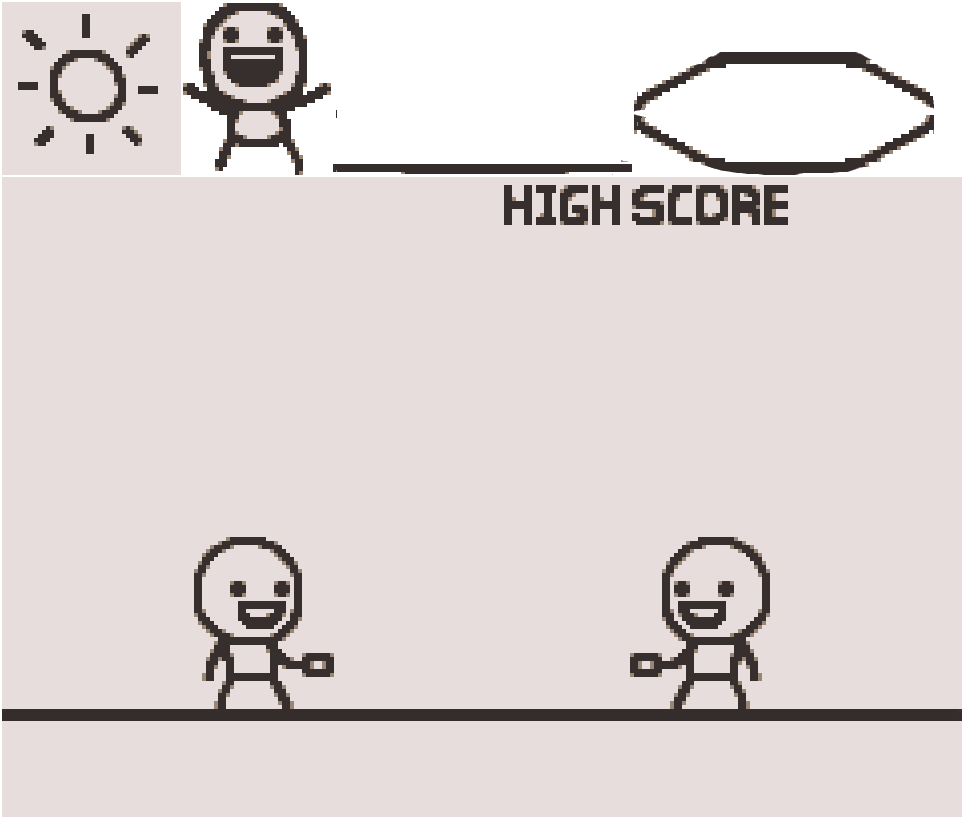
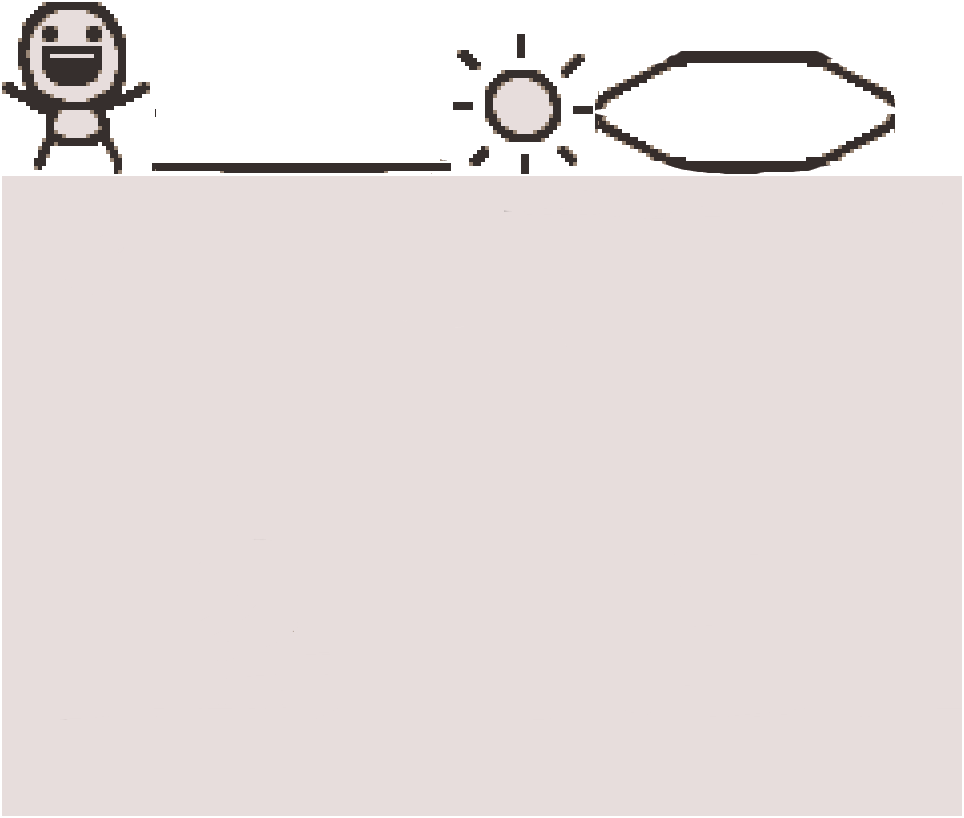
Update

diff --git a/jump/example1.js b/jump/example1.js
@@ -175,6 +175,9 @@ var example1 = function (_, Kotlin) {
   function random($receiver) {
     return Math.random();
   }
+  function random_0($receiver, min, max) {
+    return random($receiver) * (max - min) + min | 0;
+  }
   function crop($receiver, rect, copy) {
     if (copy === void 0)
       copy = null;
@@ -555,9 +558,62 @@ var example1 = function (_, Kotlin) {
   function main(args) {
     jumpMain();
   }
+  function BackgroundFX(game, container) {
+    this.game = game;
+    this.container = container;
+    this.count = 0.0;
+  }
+  BackgroundFX.prototype.preload = function () {
+    this.game.load.image('spin1', 'assets/sprites/spinObj_01.png');
+    this.game.load.image('spin2', 'assets/sprites/spinObj_02.png');
+    this.game.load.image('spin3', 'assets/sprites/spinObj_03.png');
+    this.game.load.image('spin4', 'assets/sprites/spinObj_04.png');
+    this.game.load.image('spin5', 'assets/sprites/spinObj_05.png');
+    this.game.load.image('spin6', 'assets/sprites/spinObj_06.png');
+    this.game.load.image('spin7', 'assets/sprites/spinObj_07.png');
+    this.game.load.image('spin8', 'assets/sprites/spinObj_08.png');
+  };
+  BackgroundFX.prototype.create = function () {
+    var tmp$;
+    this.renderTexture = this.game.add.renderTexture(960, 640, 'texture1');
+    this.renderTexture2 = this.game.add.renderTexture(960, 640, 'texture2');
+    this.currentTexture = this.renderTexture;
+    this.outputSprite = this.game.add.sprite(960 / 2 | 0, 640 / 2 | 0, this.currentTexture);
+    this.container.add(this.outputSprite);
+    this.outputSprite.anchor.x = 0.5;
+    this.outputSprite.anchor.y = 0.5;
+    this.stuffContainer = this.game.add.group();
+    this.stuffContainer.x = 960 / 2.0;
+    this.stuffContainer.y = 640 / 2.0;
+    this.container.add(this.stuffContainer);
+    tmp$ = 20 - 1;
+    for (var i = 0; i <= tmp$; i++) {
+      var item = this.stuffContainer.create(Math_0.random() * 400 - 200, Math_0.random() * 400 - 200, 'spin' + random_0(Phaser.Math, 1, 8));
+      item.anchor.setTo(0.5, 0.5);
+    }
+    this.count = 0.0;
+  };
+  BackgroundFX.prototype.update = function () {
+    this.stuffContainer.addAll('rotation', 0.1);
+    this.count += 0.01;
+    var temp = this.renderTexture;
+    this.renderTexture = this.renderTexture2;
+    this.renderTexture2 = temp;
+    setTexture_0(this.outputSprite, this.renderTexture);
+    this.stuffContainer.rotation = this.stuffContainer.rotation - 0.01;
+    this.outputSprite.scale.x = 1 + Math_0.sin(this.count) * 0.2;
+    this.outputSprite.scale.y = 1 + Math_0.sin(this.count) * 0.2;
+    this.renderTexture2.renderXY(this.container, 0, 0, true);
+  };
+  BackgroundFX.$metadata$ = {
+    type: Kotlin.TYPE.CLASS,
+    classIndex: Kotlin.newClassIndex(),
+    simpleName: 'BackgroundFX',
+    baseClasses: []
+  };
   var Math_0;
   function jumpMain() {
-    var game = initKoala(GameConfig(void 0, gameProperties_getInstance().screenWidth, gameProperties_getInstance().screenHeight, Phaser.AUTO, 'gameDiv', void 0, void 0, void 0, void 0, new Jump()));
+    var game = initKoala(GameConfig(void 0, gameProperties_getInstance().screenWidth, gameProperties_getInstance().screenHeight, Phaser.CANVAS, 'gameDiv', void 0, void 0, void 0, void 0, new Jump()));
   }
   function gameProperties() {
     gameProperties_instance = this;
@@ -613,6 +669,7 @@ var example1 = function (_, Kotlin) {
   };
   function Jump() {
     Phaser.State.call(this);
+    this.fxTween = null;
     this.anim = ['rope1', 'rope2', 'rope3', 'rope2'];
     this.ropeSpeed = 1.0;
     this.hiScore = 0;
@@ -627,6 +684,9 @@ var example1 = function (_, Kotlin) {
   Jump.prototype.preload = function () {
     console.log('preload');
     this.game.load.pack('level', 'assets/jump/assets-pack.json', null, this);
+    this.fx = this.game.add.group();
+    this.backgroundFX = new BackgroundFX(this.game, this.fx);
+    this.backgroundFX.preload();
   };
   Jump.prototype.loadUpdate = function () {
     console.log('loadUpdate');
@@ -642,6 +702,9 @@ var example1 = function (_, Kotlin) {
   Jump.prototype.create = function () {
     console.log('create');
     this.lev = new level(this.game);
+    this.lev.addAt(this.fx, 1);
+    this.fx.alpha = 0.0;
+    this.backgroundFX.create();
     var music = this.game.add.audio('music');
     var sound_0 = this.game.add.sound('sound');
     music.play();
@@ -673,13 +736,39 @@ var example1 = function (_, Kotlin) {
     this.resetScore();
     this.resetRopeSpeed();
   };
+  function Jump$resetScore$ObjectLiteral() {
+    this.alpha = 0.0;
+  }
+  Jump$resetScore$ObjectLiteral.$metadata$ = {
+    type: Kotlin.TYPE.CLASS,
+    classIndex: Kotlin.newClassIndex(),
+    baseClasses: []
+  };
   Jump.prototype.resetScore = function () {
+    var tmp$;
     this.score = 0;
     this.setScore_3p81yu$(this.score);
+    if (this.fxTween != null)
+      ((tmp$ = this.fxTween) != null ? tmp$ : Kotlin.throwNPE()).stop();
+    this.fxTween = this.game.add.tween(this.fx).to(new Jump$resetScore$ObjectLiteral(), 1000, Kotlin.getBoundCallableRefForMemberFunction(Phaser.Easing.Linear, 'None'), true, null);
+  };
+  function Jump$increaseScore$ObjectLiteral() {
+    this.alpha = 1.0;
+  }
+  Jump$increaseScore$ObjectLiteral.$metadata$ = {
+    type: Kotlin.TYPE.CLASS,
+    classIndex: Kotlin.newClassIndex(),
+    baseClasses: []
   };
   Jump.prototype.increaseScore = function () {
+    var tmp$;
     this.score++;
     this.setScore_3p81yu$(this.score);
+    if (this.score === 10) {
+      if (this.fxTween != null)
+        ((tmp$ = this.fxTween) != null ? tmp$ : Kotlin.throwNPE()).stop();
+      this.fxTween = this.game.add.tween(this.fx).to(new Jump$increaseScore$ObjectLiteral(), 10000, Kotlin.getBoundCallableRefForMemberFunction(Phaser.Easing.Linear, 'None'), true, null);
+    }
   };
   Jump.prototype.setScore_3p81yu$ = function (score) {
     this.scoreText.text = score.toString();
@@ -700,6 +789,7 @@ var example1 = function (_, Kotlin) {
     this.player.jump();
   };
   Jump.prototype.update = function () {
+    this.backgroundFX.update();
     var result = Math_0.sin(this.currentAngle);
     if (result - this.lastResult > 0) {
       this.direction = 1;
@@ -781,6 +871,7 @@ var example1 = function (_, Kotlin) {
   package$Phaser.sqrt_m4iyer$ = sqrt;
   package$Phaser.abs_m4iyer$ = abs;
   package$Phaser.random_akwgk1$ = random;
+  package$Phaser.random_n28dad$ = random_0;
   package$Phaser.crop_p8qxvh$ = crop;
   package$Phaser.destroy_2ajn2y$ = destroy;
   package$Phaser.reviveKt = revive;
@@ -822,6 +913,7 @@ var example1 = function (_, Kotlin) {
   package$Phaser.DirectionObj = DirectionObj;
   _.main_kand9s$ = main;
   var package$jump = _.jump || (_.jump = {});
+  package$jump.BackgroundFX = BackgroundFX;
   Object.defineProperty(package$jump, 'Math', {
     get: function () {
       return Math_0;

diff --git a/jump/index.html b/jump/index.html
@@ -5,6 +5,7 @@
     <meta name="viewport" content="width=device-width, initial-scale=1.0">
 </head>
 <body>
+	<div id="topBarDiv"></div>
     <div id="gameDiv" style="height: 100%"></div>
     <script src="phaser.min.js"></script>
     <script src="lib/kotlin.js"></script>

diff --git a/jump/assets/jump/canvas/level.js b/jump/assets/jump/canvas/level.js
@@ -21,6 +21,8 @@ function level(aGame, aParent) {
 	var sun = this.game.add.sprite(95, 98, 'jumpAtlas', 'sun', this);
 	sun.anchor.setTo(0.5, 0.5);
 
+	this.game.add.sprite(-3, 7, 'jumpAtlas2', 'foreground', this);
+
 	 // public fields
 
 	this.fRope1 = rope1;
